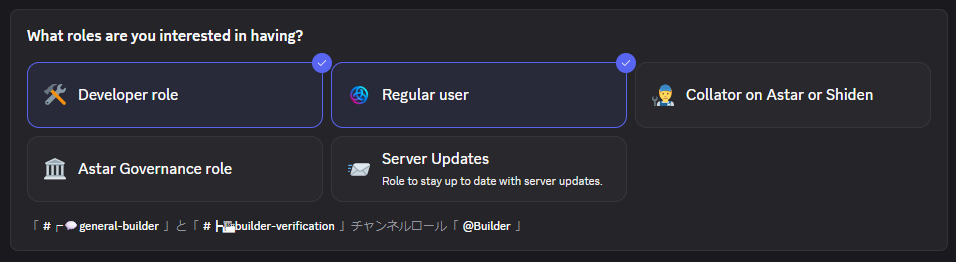
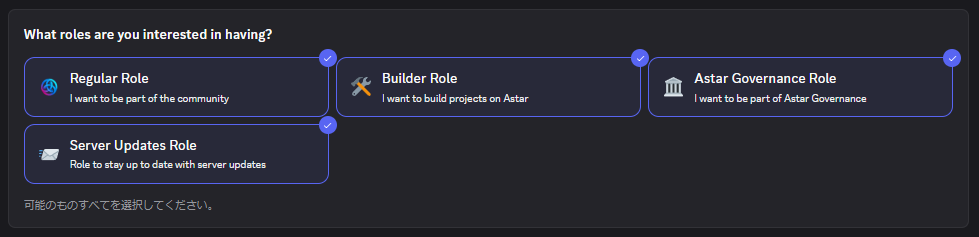
update set build role

diff --git a/docs/community/discord.md b/docs/community/discord.md
@@ -2,7 +2,7 @@
 
 1. Join [Astar Network Discord](https://discord.gg/astarnetwork) 
 
-2. In “Channels & Roles,” select the **Developer role**. <p>  ![Developer role](../assets/images/role.png)
+2. In “Channels & Roles,” select the **Builder Role**. <p>  ![Developer role](../assets/images/role.png)
 
 All communication related to "Peers Program" will occur in the **#peers-program** channel.
 
